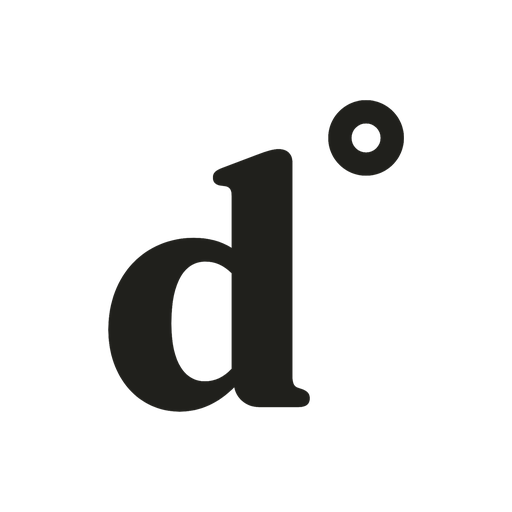
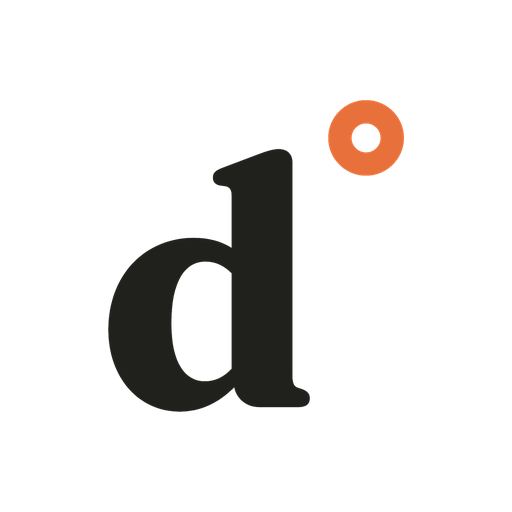
fix: half-orbit back to rest, eased motion, ember ring, blank-start splash
DegreesMark:
- Orbit radius is now derived exactly from the ring's own resting
  distance from the d's centre, and the sweep covers only that radius's
  far side (180°, not a full lap): the ring parks opposite its resting
  spot, then sweeps back to precisely that spot and settles — the
  logo's resting pose, not an arbitrary parked position.
- Both the morph crossfade and the orbit sweep now ease in/out
  (cubic), replacing the linear motion.
- The degree ring is ember, not ink (Image#tintColor at render time,
  so the same source asset serves both colors). The morph gradients
  the color too: the shrinking d goes ink -> ember as it becomes the
  ring, the growing ring goes ember -> ink as it becomes the d.
- D_POSE/RING_TOPRIGHT/INK/EMBER now exported so AnimatedSplash can
  match the same geometry and colors exactly.

AnimatedSplash: rebuilt around a single logo instead of a graphic mark
plus separate typed caption. The native splash is now blank (app.json)
so there's no pop; the cursor reveals the d and the ring directly, in
place, left-to-right (an animated-width clip over the fixed image, not
separate text) — once both are drawn it's pixel-identical to
DegreesMark's resting pose, so the swap to the animated component for
the one-shot shrink/grow/orbit cycle is seamless.

Regenerated icon.png, splash-icon.png, and the Android adaptive-icon
foreground with the ember ring.

Changed region(s): [[0.625, 0.1875, 0.8125, 0.3438]]

diff --git a/apps/mobile/src/components/DegreesMark.tsx b/apps/mobile/src/components/DegreesMark.tsx
@@ -1,76 +1,76 @@
 // Owner: shared mobile scaffold (Charles). The Degrees mark: the "d" and the degree ring are the actual source
 // artwork (assets/brand/d-glyph.png, degree-ring.png, cropped from assets/brand/degrees-logo-reference.png), not
-// a redrawn approximation, so the brand mark is pixel-true to the design.
+// a redrawn approximation, so the brand mark is pixel-true to the design. The ring is always ember — it's tinted
+// at render time (Image#tintColor), not baked into the asset — so the same source works for both colors.
 //
-// Static (`animated={false}`, headers/icon), it's the resting "d°" lockup: the ring top-right of the ascender,
-// exactly as designed.
+// Static (`animated={false}`, headers/icon), it's the resting "d°" lockup: the ember ring top-right of the
+// ascender, exactly as designed.
 //
-// Animated (loading indicator, and the tail of the splash), it runs a repeating three-beat cycle: the "d"
-// shrinks and fades into a small ring parked past the letter's bottom-left, while the ring simultaneously grows
-// and fades into the new "d" — then that small ring whips counterclockwise once around the whole letter and
-// settles back at the park position — then it repeats. `loop={false}` runs the cycle once and calls `onDone`.
+// Animated (loading indicator, and the tail of the splash), it runs a repeating three-beat cycle: the ink "d"
+// shrinks and gradients ink -> ember as it fades into a ring parked opposite the ring's resting spot (far enough
+// past the letter that the orbit never crosses it), while the ring simultaneously grows and gradients ember ->
+// ink as it fades into the new "d" — then that parked ring sweeps counterclockwise exactly halfway round the
+// letter, landing back at the ring's original top-right spot — then it repeats. `loop={false}` runs the cycle
+// once and calls `onDone`, settled at the same resting pose it started from.
 import { useEffect } from 'react';
 import { Image, View } from 'react-native';
 import Animated, {
-  Extrapolation,
-  cancelAnimation,
   Easing,
+  cancelAnimation,
   interpolate,
+  interpolateColor,
   runOnJS,
   useAnimatedStyle,
   useSharedValue,
   withRepeat,
   withTiming,
+  Extrapolation,
 } from 'react-native-reanimated';
 
 const dGlyph = require('../../assets/brand/d-glyph.png');
 const ringGlyph = require('../../assets/brand/degree-ring.png');
 
-// Measured from the source mark, as fractions of `size`.
-const D_POSE = { left: 0.04, top: 0.166, width: 0.6286, height: 0.8192 };
-const RING_TOPRIGHT = { left: 0.7218, top: 0.0148, width: 0.2382, height: 0.2382 };
+export const INK = '#20201C';
+export const EMBER = '#E8703A';
+
+// Measured from the source mark, as fractions of `size`. Exported so AnimatedSplash's typing reveal can line up
+// with exactly the same boxes before handing off to this component.
+export const D_POSE = { left: 0.04, top: 0.166, width: 0.6286, height: 0.8192 };
+export const RING_TOPRIGHT = { left: 0.7218, top: 0.0148, width: 0.2382, height: 0.2382 };
 const D_CENTER = { x: 0.3543, y: 0.5756 };
+const RING_SIZE = RING_TOPRIGHT.width;
 
-// The loop's parked ring: far enough past the d's bottom-left corner that a full orbit at this radius never
-// crosses the letter (radius exceeds the d's own bounding half-diagonal, 0.5163, with margin to spare).
-const PARK_R = 0.64;
-const PARK_ANGLE = 140; // degrees; 0 = east, 90 = south — 140 sits down-and-left of centre.
-const PARK_SIZE = 0.16;
-const PARK = {
-  left: D_CENTER.x + PARK_R * Math.cos((PARK_ANGLE * Math.PI) / 180) - PARK_SIZE / 2,
-  top: D_CENTER.y + PARK_R * Math.sin((PARK_ANGLE * Math.PI) / 180) - PARK_SIZE / 2,
-  width: PARK_SIZE,
-  height: PARK_SIZE,
-};
-// Transitional (fading-out) shapes: the shrinking d collapses toward the park spot; the growing ring swells
-// toward — and past — the d's own footprint before it's fully faded, so the crossfade never shows a gap.
-const D_SHRUNK = { left: PARK.left, top: PARK.top, width: PARK_SIZE, height: PARK_SIZE };
-const RING_GROWN = {
-  left: D_CENTER.x - D_POSE.height / 2,
-  top: D_CENTER.y - D_POSE.height / 2,
-  width: D_POSE.height,
-  height: D_POSE.height,
-};
-
-const MORPH_MS = 550;
-const SETTLE_MS = 400;
+// The orbit circle: centred on the d, radius equal to the ring's own resting distance from that centre, so the
+// ring's top-right pose sits exactly on it. That radius already clears the d's bounding half-diagonal (0.5163)
+// with margin, so a ring travelling anywhere on this circle never crosses the letter.
+const RING_DX = RING_TOPRIGHT.left + RING_SIZE / 2 - D_CENTER.x;
+const RING_DY = RING_TOPRIGHT.top + RING_SIZE / 2 - D_CENTER.y;
+const ORBIT_R = Math.hypot(RING_DX, RING_DY);
+const TOPRIGHT_ANGLE = (Math.atan2(RING_DY, RING_DX) * 180) / Math.PI;
+// The park spot is the point opposite the ring's resting spot on that same circle — a half-orbit away.
+const PARK_ANGLE = TOPRIGHT_ANGLE + 180;
 
 function polarBox(cx: number, cy: number, radius: number, angleDeg: number, itemSize: number) {
   'worklet';
   const rad = (angleDeg * Math.PI) / 180;
-  const size = itemSize;
-  return {
-    left: cx + radius * Math.cos(rad) - size / 2,
-    top: cy + radius * Math.sin(rad) - size / 2,
-    width: size,
-    height: size,
-  };
+  return { left: cx + radius * Math.cos(rad) - itemSize / 2, top: cy + radius * Math.sin(rad) - itemSize / 2, width: itemSize, height: itemSize };
 }
+
+const PARK = polarBox(D_CENTER.x, D_CENTER.y, ORBIT_R, PARK_ANGLE, RING_SIZE);
+// Transitional (fading-out) shapes: the shrinking d collapses toward the park spot, matching the size the stable
+// ring will fade in at there; the growing ring swells past the d's own footprint before it's fully faded, so the
+// crossfade never shows a gap.
+const D_SHRUNK = { left: PARK.left, top: PARK.top, width: RING_SIZE, height: RING_SIZE };
+const RING_GROWN = { left: D_CENTER.x - D_POSE.height / 2, top: D_CENTER.y - D_POSE.height / 2, width: D_POSE.height, height: D_POSE.height };
+
+const MORPH_MS = 550;
+const SETTLE_MS = 400;
+const EASE = Easing.inOut(Easing.cubic);
 
 export function DegreesMark({
   size = 48,
   animated = false,
-  // Duration of the orbit sweep (the settle hold and the morph itself are fixed).
+  // Duration of the (half-)orbit sweep. The settle hold and the morph itself are fixed.
   orbitMs = 2400,
   // false runs the shrink/grow/orbit cycle exactly once and calls onDone when it settles.
   loop = true,
@@ -106,63 +106,63 @@ export function DegreesMark({
     'worklet';
     return frac * size;
   };
-  const useBoxStyle = (from: typeof D_POSE, to: typeof D_POSE) =>
-    useAnimatedStyle(() => ({
-      position: 'absolute',
-      left: px(interpolate(master.value, [0, mMorph], [from.left, to.left], Extrapolation.CLAMP)),
-      top: px(interpolate(master.value, [0, mMorph], [from.top, to.top], Extrapolation.CLAMP)),
-      width: px(interpolate(master.value, [0, mMorph], [from.width, to.width], Extrapolation.CLAMP)),
-      height: px(interpolate(master.value, [0, mMorph], [from.height, to.height], Extrapolation.CLAMP)),
-    }));
-  const fadeOutStyle = useAnimatedStyle(() => ({
-    opacity: interpolate(master.value, [0, mMorph], [1, 0], Extrapolation.CLAMP),
-  }));
-  const fadeInStyle = useAnimatedStyle(() => ({
-    opacity: interpolate(master.value, [0, mMorph], [0, 1], Extrapolation.CLAMP),
-  }));
+  // Eased, clamped progress through the morph (0..1) — held at 0 before it starts, at 1 after it ends.
+  const morphT = () => {
+    'worklet';
+    return EASE(interpolate(master.value, [0, mMorph], [0, 1], Extrapolation.CLAMP));
+  };
 
-  // The stable ring: fades in at PARK during the morph, then orbits the d, then holds at PARK again.
+  // Transitional element: box + opacity + tint all driven by the same eased morph progress, fading OUT as it
+  // travels from `from` toward `to` and gradients from `colorFrom` to `colorTo`.
+  const useTransitionalStyle = (from: typeof D_POSE, to: typeof D_POSE, colorFrom: string, colorTo: string) =>
+    useAnimatedStyle(() => {
+      const t = morphT();
+      return {
+        position: 'absolute',
+        left: px(from.left + t * (to.left - from.left)),
+        top: px(from.top + t * (to.top - from.top)),
+        width: px(from.width + t * (to.width - from.width)),
+        height: px(from.height + t * (to.height - from.height)),
+        opacity: 1 - t,
+        tintColor: interpolateColor(t, [0, 1], [colorFrom, colorTo]),
+      };
+    });
+  const fadeInStyle = useAnimatedStyle(() => ({ opacity: morphT() }));
+
+  // The stable ring: fades in ember at PARK during the morph, then sweeps halfway to its resting spot.
   const ringOrbitStyle = useAnimatedStyle(() => {
-    const angle = interpolate(
-      master.value,
-      [0, mMorph, mOrbit, 1],
-      [PARK_ANGLE, PARK_ANGLE, PARK_ANGLE - 360, PARK_ANGLE - 360],
-      Extrapolation.CLAMP,
-    );
-    const box = polarBox(px(D_CENTER.x), px(D_CENTER.y), px(PARK_R), angle, px(PARK_SIZE));
-    return { position: 'absolute', ...box, opacity: interpolate(master.value, [0, mMorph], [0, 1], Extrapolation.CLAMP) };
+    const orbitT = EASE(interpolate(master.value, [mMorph, mOrbit], [0, 1], Extrapolation.CLAMP));
+    const angle = PARK_ANGLE - 180 * orbitT;
+    const box = polarBox(px(D_CENTER.x), px(D_CENTER.y), px(ORBIT_R), angle, px(RING_SIZE));
+    return { position: 'absolute', ...box, opacity: morphT(), tintColor: EMBER };
   });
 
-  const dShrinkingStyle = useBoxStyle(D_POSE, D_SHRUNK);
-  const ringGrowingStyle = useBoxStyle(RING_TOPRIGHT, RING_GROWN);
+  const dShrinkingStyle = useTransitionalStyle(D_POSE, D_SHRUNK, INK, EMBER);
+  const ringGrowingStyle = useTransitionalStyle(RING_TOPRIGHT, RING_GROWN, EMBER, INK);
 
   if (!animated) {
     return (
       <View style={{ width: size, height: size }}>
         <Image source={dGlyph} resizeMode="contain" style={{ position: 'absolute', left: px(D_POSE.left), top: px(D_POSE.top), width: px(D_POSE.width), height: px(D_POSE.height) }} />
-        <Image source={ringGlyph} resizeMode="contain" style={{ position: 'absolute', left: px(RING_TOPRIGHT.left), top: px(RING_TOPRIGHT.top), width: px(RING_TOPRIGHT.width), height: px(RING_TOPRIGHT.height) }} />
+        <Image source={ringGlyph} resizeMode="contain" tintColor={EMBER} style={{ position: 'absolute', left: px(RING_TOPRIGHT.left), top: px(RING_TOPRIGHT.top), width: px(RING_TOPRIGHT.width), height: px(RING_TOPRIGHT.height) }} />
       </View>
     );
   }
 
   return (
     <View style={{ width: size, height: size }}>
-      {/* Transitional: the old d shrinking away toward the park spot. */}
-      <Animated.View style={[dShrinkingStyle, fadeOutStyle]}>
-        <Image source={dGlyph} resizeMode="contain" style={{ width: '100%', height: '100%' }} />
-      </Animated.View>
-      {/* Transitional: the old ring swelling toward the d's footprint. */}
-      <Animated.View style={[ringGrowingStyle, fadeOutStyle]}>
-        <Image source={ringGlyph} resizeMode="contain" style={{ width: '100%', height: '100%' }} />
-      </Animated.View>
-      {/* Stable: the new d, fixed at D_POSE, fading in. */}
-      <Animated.View style={[{ position: 'absolute', left: px(D_POSE.left), top: px(D_POSE.top), width: px(D_POSE.width), height: px(D_POSE.height) }, fadeInStyle]}>
-        <Image source={dGlyph} resizeMode="contain" style={{ width: '100%', height: '100%' }} />
-      </Animated.View>
-      {/* Stable: the new ring, parked then orbiting. */}
-      <Animated.View style={ringOrbitStyle}>
-        <Image source={ringGlyph} resizeMode="contain" style={{ width: '100%', height: '100%' }} />
-      </Animated.View>
+      {/* Transitional: the old d shrinking away, gradienting ink -> ember, toward the park spot. */}
+      <Animated.Image source={dGlyph} resizeMode="contain" style={dShrinkingStyle} />
+      {/* Transitional: the old ring swelling, gradienting ember -> ink, toward the d's footprint. */}
+      <Animated.Image source={ringGlyph} resizeMode="contain" style={ringGrowingStyle} />
+      {/* Stable: the new d, ink, fixed at D_POSE, fading in. */}
+      <Animated.Image
+        source={dGlyph}
+        resizeMode="contain"
+        style={[{ position: 'absolute', left: px(D_POSE.left), top: px(D_POSE.top), width: px(D_POSE.width), height: px(D_POSE.height) }, fadeInStyle]}
+      />
+      {/* Stable: the new ring, ember, parked then sweeping halfway home. */}
+      <Animated.Image source={ringGlyph} resizeMode="contain" style={ringOrbitStyle} />
     </View>
   );
 }

diff --git a/apps/mobile/src/components/AnimatedSplash.tsx b/apps/mobile/src/components/AnimatedSplash.tsx
@@ -1,10 +1,12 @@
-// Owner: shared mobile scaffold (Charles). The animated splash: paper background, starting from the exact
-// pixels the native splash left on screen (assets/images/splash-icon.png at 132pt, see app.json) — no pop.
-// A cursor types "d" then "°" beneath the mark, then the mark itself runs its shrink/grow/orbit cycle once
-// (DegreesMark's `loop={false}`), then the whole thing lifts to reveal the app. Runs once per cold start;
-// never blocks — the app renders underneath from frame one.
+// Owner: shared mobile scaffold (Charles). The animated splash: paper background, starting completely blank —
+// no logo, nothing drawn (app.json's native splash is blank too, so there's no pop at handoff). A cursor types
+// the "d", then the degree ring, directly into place (a left-to-right reveal, not separate caption text — the
+// mark itself is what's "typed", so there's only ever one logo on screen). Once both are drawn, that becomes
+// exactly DegreesMark's resting pose, so the swap to <DegreesMark animated loop={false}> is pixel-for-pixel: it
+// runs its shrink/grow/orbit cycle once, then the whole thing lifts to reveal the app underneath. Runs once per
+// cold start; never blocks — the app renders from frame one.
 import { useEffect, useState } from 'react';
-import { StyleSheet, Text, View } from 'react-native';
+import { Image, StyleSheet } from 'react-native';
 import Animated, {
   Easing,
   runOnJS,
@@ -15,40 +17,44 @@ import Animated, {
   withSequence,
   withTiming,
 } from 'react-native-reanimated';
-import { DegreesMark } from './DegreesMark';
+import { DegreesMark, D_POSE, RING_TOPRIGHT, INK, EMBER } from './DegreesMark';
 
-// Must match app.json → expo-splash-screen imageWidth so the handoff is pixel-for-pixel.
+const dGlyph = require('../../assets/brand/d-glyph.png');
+const ringGlyph = require('../../assets/brand/degree-ring.png');
+
+// Must match app.json → expo-splash-screen imageWidth so the handoff is pixel-for-pixel. (Currently none — the
+// native splash is left blank on purpose, see app.json.)
 const MARK_SIZE = 132;
 const ORBIT_MS = 1000;
-const TYPE_D_MS = 250;
-const TYPE_RING_MS = 300;
-const TYPE_HOLD_MS = 500; // lets the cursor blink a couple of times before the mark takes over
+const REVEAL_D_MS = 450;
+const REVEAL_GAP_MS = 150;
+const REVEAL_RING_MS = 300;
+const TYPE_HOLD_MS = 400; // lets the cursor blink a couple of times before the mark takes over
 
-type Phase = 'typing' | 'graphic' | 'done';
+type Phase = 'typing' | 'graphic';
 
 export function AnimatedSplash({ onDone }: { onDone: () => void }) {
   const [phase, setPhase] = useState<Phase>('typing');
-  const [typedCount, setTypedCount] = useState(0);
-  const cursor = useSharedValue(1);
-  const typedOpacity = useSharedValue(1);
+  const px = (frac: number) => frac * MARK_SIZE;
+
+  const dReveal = useSharedValue(0); // 0..1
+  const ringReveal = useSharedValue(0); // 0..1
+  const cursor = useSharedValue(0);
+  const typingOpacity = useSharedValue(1);
   const lift = useSharedValue(0);
 
   useEffect(() => {
     cursor.value = withRepeat(
-      withSequence(withTiming(0, { duration: 0 }), withDelay(430, withTiming(1, { duration: 0 })), withDelay(430, withTiming(0, { duration: 0 }))),
+      withSequence(withTiming(1, { duration: 0 }), withDelay(430, withTiming(0, { duration: 0 })), withDelay(430, withTiming(1, { duration: 0 }))),
       -1,
     );
-    const t1 = setTimeout(() => setTypedCount(1), TYPE_D_MS);
-    const t2 = setTimeout(() => setTypedCount(2), TYPE_D_MS + TYPE_RING_MS);
-    const t3 = setTimeout(() => {
-      typedOpacity.value = withTiming(0, { duration: 200 });
+    dReveal.value = withTiming(1, { duration: REVEAL_D_MS, easing: Easing.out(Easing.cubic) });
+    ringReveal.value = withDelay(REVEAL_D_MS + REVEAL_GAP_MS, withTiming(1, { duration: REVEAL_RING_MS, easing: Easing.out(Easing.cubic) }));
+    const t = setTimeout(() => {
+      typingOpacity.value = withTiming(0, { duration: 150 });
       setPhase('graphic');
-    }, TYPE_D_MS + TYPE_RING_MS + TYPE_HOLD_MS);
-    return () => {
-      clearTimeout(t1);
-      clearTimeout(t2);
-      clearTimeout(t3);
-    };
+    }, REVEAL_D_MS + REVEAL_GAP_MS + REVEAL_RING_MS + TYPE_HOLD_MS);
+    return () => clearTimeout(t);
     // eslint-disable-next-line react-hooks/exhaustive-deps
   }, []);
 
@@ -62,20 +68,38 @@ export function AnimatedSplash({ onDone }: { onDone: () => void }) {
   const markStyle = useAnimatedStyle(() => ({
     transform: [{ translateY: -lift.value * 60 }, { scale: 1 - lift.value * 0.15 }],
   }));
-  const typedStyle = useAnimatedStyle(() => ({ opacity: typedOpacity.value }));
-  const cursorStyle = useAnimatedStyle(() => ({ opacity: cursor.value }));
+  const typingStyle = useAnimatedStyle(() => ({ opacity: typingOpacity.value }));
+  const dRevealStyle = useAnimatedStyle(() => ({ width: px(D_POSE.width) * dReveal.value }));
+  const ringRevealStyle = useAnimatedStyle(() => ({ width: px(RING_TOPRIGHT.width) * ringReveal.value }));
+  const cursorStyle = useAnimatedStyle(() => {
+    const typingRing = ringReveal.value > 0;
+    const box = typingRing ? RING_TOPRIGHT : D_POSE;
+    const revealW = typingRing ? ringReveal.value * px(box.width) : dReveal.value * px(box.width);
+    return {
+      opacity: cursor.value,
+      left: px(box.left) + revealW,
+      top: px(box.top),
+      height: px(box.height),
+    };
+  });
 
   return (
     <Animated.View pointerEvents="none" style={[StyleSheet.absoluteFill, styles.overlay, overlayStyle]}>
-      <Animated.View style={markStyle}>
-        <DegreesMark size={MARK_SIZE} animated={phase === 'graphic'} loop={false} orbitMs={ORBIT_MS} onDone={handleGraphicDone} />
-      </Animated.View>
-      <Animated.View style={[styles.typed, typedStyle]}>
-        <View style={styles.typedRow}>
-          <Text style={styles.word}>{typedCount >= 1 ? 'd' : ''}</Text>
-          <Text style={[styles.word, styles.degree]}>{typedCount >= 2 ? '°' : ''}</Text>
-          <Animated.View style={[styles.cursor, cursorStyle]} />
-        </View>
+      <Animated.View style={[{ width: MARK_SIZE, height: MARK_SIZE }, markStyle]}>
+        {phase === 'graphic' ? (
+          <DegreesMark size={MARK_SIZE} animated loop={false} orbitMs={ORBIT_MS} onDone={handleGraphicDone} />
+        ) : (
+          <Animated.View style={typingStyle}>
+            {/* The mark being typed in, left to right — the only logo on screen. */}
+            <Animated.View style={[styles.revealBox, { left: px(D_POSE.left), top: px(D_POSE.top), height: px(D_POSE.height) }, dRevealStyle]}>
+              <Image source={dGlyph} resizeMode="contain" style={{ width: px(D_POSE.width), height: px(D_POSE.height), tintColor: INK }} />
+            </Animated.View>
+            <Animated.View style={[styles.revealBox, { left: px(RING_TOPRIGHT.left), top: px(RING_TOPRIGHT.top), height: px(RING_TOPRIGHT.height) }, ringRevealStyle]}>
+              <Image source={ringGlyph} resizeMode="contain" style={{ width: px(RING_TOPRIGHT.width), height: px(RING_TOPRIGHT.height), tintColor: EMBER }} />
+            </Animated.View>
+            <Animated.View style={[styles.cursor, cursorStyle]} />
+          </Animated.View>
+        )}
       </Animated.View>
     </Animated.View>
   );
@@ -89,10 +113,8 @@ const styles = StyleSheet.create({
     zIndex: 100,
     elevation: 100,
   },
-  // Sits below the mark without moving it: absolute, so the mark stays exactly where the native image was.
-  typed: { position: 'absolute', top: '50%', marginTop: MARK_SIZE / 2 + 22, alignItems: 'center' },
-  typedRow: { flexDirection: 'row', alignItems: 'flex-end' },
-  word: { fontFamily: 'Fraunces_700Bold', fontSize: 34, color: '#20201C', letterSpacing: -0.5 },
-  degree: { color: '#E8703A' },
-  cursor: { width: 3, height: 30, marginLeft: 3, marginBottom: 3, backgroundColor: '#20201C' },
+  // overflow:hidden + an animated width is the reveal: the image inside is full size and fixed, only the
+  // window onto it grows.
+  revealBox: { position: 'absolute', overflow: 'hidden' },
+  cursor: { position: 'absolute', width: 3, backgroundColor: '#20201C' },
 });
